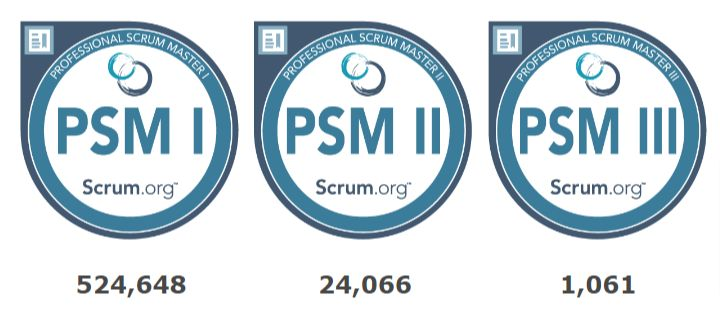
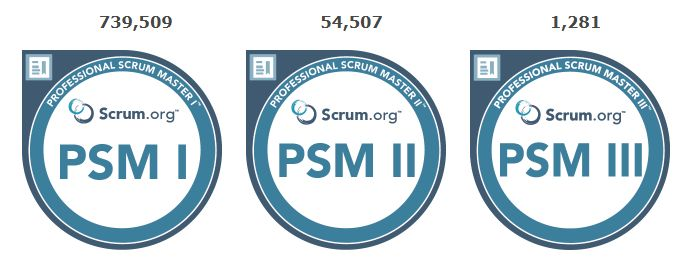
Updated the three PSM articles

diff --git a/content/articles/psm-1-certification-exam-preparation.md b/content/articles/psm-1-certification-exam-preparation.md
@@ -2,7 +2,7 @@
 title = "PSM I Certification: How to Prepare for and Pass the Exam"
 description = "Professional Scrum Master certification exam tests your understanding of the Scrum framework. How hard is this exam, and how do you pass it successfully?"
 date = "2022-11-04"
-lastmod = "2023-01-29"
+lastmod = "2025-12-13"
 slug = "psm-1-certification-exam-preparation"
 featured = "/article_images/psm-1-certification-exam-preparation-hero.jpg"
 thumbnail = "/article_images/psm-1-certification-exam-preparation-thumbnail.jpg"
@@ -30,28 +30,13 @@ Some questions you might need answered before deciding to take the exam:
 
 The biggest [competitor for PSM is CSM](/articles/psm-csm-which-scrum-certification-best/), but Scrum Alliance doesn’t publish the number of their certification holders. Scrum.org does, and Professional Scrum Master certification is in high demand.
 
-At the time of writing, among 750 000 professional certifications issued, around 70% of them were PSM I certifications.
+Scrum.org has a number of different certifications, but from over a million they issued in total, around 65% were PSM I certifications.
 
 **Related**: [Is the Scrum Master role a good fit for me?](/articles/is-the-scrum-master-role-right-for-me/)
 
-{{< figure src="/article_images/PSM-holders-Count-Scrum-org.jpg" alt="Number of Scrum.org Professional Scrum Master certification holders on each of the three levels" caption="Screenshot from Scrum.org">}}
+{{< figure src="/article_images/PSM-holders-Count-Scrum-org.jpg" alt="Number of Scrum.org Professional Scrum Master certification holders on each of the three levels" caption="PSM certification holders in 2025">}}
 
 As you can see, only under 5% of PSM I certification holders went on to obtain PSM II. However, PSM 1 isn’t the prerequisite for PSM 2, and maybe you’ll even opt to go [straight for the second level of PSM](/articles/psm-2-certification-exam-preparation/) – see below what the differences are.
-
-
-### PSM I exam and preparation cost
-
-PSM 1 exam fee is $150 per attempt.
-
-Scrum.org has a Scrum Master Learning Path full of **free** articles and webinars. You’ll gain a tremendous amount of insight if you complete it. Here’s a [list of full-length webinars](/articles/free-scrum-agile-webinars-prepare-certification-exam/) from Scrum.org learning paths.
-
-To be introduced to the nuances of the Scrum Framework with a structured narrative, read _[Scrum: A Pocket Guide](https://www.amazon.com/gp/product/B08XWQ7DG9/)_. The paperback and Kindle versions cost around $16 on Amazon. There are more book recommendations at the end of the article.
-
-If you like the video format, there are Scrum Master preparation courses, like this [Scrum for Beginners course](https://www.udemy.com/course/agile-scrum-for-beginners-scrum-master-certification-preparation/) on Udemy – the regular price is $35 but could be available for under $15 with the promotions Udemy regularly runs. 
-
-If you have the funds, taking a training course by a Professional Scrum Trainer would be very beneficial. PSM I 2-day training sessions on Scrum.org start at around $1000, with a free exam attempt included in the price. Training is available in different languages.
-
-{{< ebook-subscribe >}}
 
 ### How hard is the PSM 1 exam?
 
@@ -61,6 +46,7 @@ According to the calculations I ran when [comparing PSM I to the first level of 
 
 However, in and of itself the PSM I test is straightforward – as long as you know the Scrum Guide well. The best way to learn it well is to understand how its elements come together and try to implement its principles in practice.
 
+{{< ebook-subscribe >}}
 
 ### Is the PSM I exam open book or proctored?
 
@@ -72,6 +58,24 @@ Though it’s a relief to know that you could attempt the exam without the hassl
 
 {{< figure src="/article_images/psm-1-certification-exam-preparation-img1.jpg" alt="PSM I certification exam is open-book, but you shouldn't count on it" caption="photo by \@tima-miroshnichenko on Pexels">}}
 
+
+## PSM I certification cost breakdown
+
+### PSM 1 preparation cost
+
+Scrum.org has a [Scrum Master Learning Path](https://www.scrum.org/pathway/scrum-master/) full of **free** articles and webinars. You’ll gain a tremendous amount of insight if you complete it. Here’s a [list of full-length webinars](/articles/free-scrum-agile-webinars-prepare-certification-exam/) I put together from this and other learning paths on Scrum.org.
+
+To be introduced to the nuances of the Scrum Framework with a structured narrative, read _[Scrum: A Pocket Guide](https://www.amazon.com/Scrum-Pocket-Guide-Companion-Practice/dp/9401812217/)_. The paperback and Kindle versions cost around $19 on Amazon. There are more book recommendations at the end of the article.
+
+If you like the video format, there are Scrum Master preparation courses, like this [Scrum for Beginners course](https://www.udemy.com/course/agile-scrum-for-beginners-scrum-master-certification-preparation/) on Udemy – it could be available for under $15 with the promotions Udemy regularly runs.
+
+If you have the funds, taking a training course by a Professional Scrum Trainer would be beneficial. PSM I 2-day training sessions on Scrum.org start at around $1000, with a free exam attempt included in the price. Training is available in different languages.
+
+### PSM 1 exam cost
+
+PSM I exam fee is $200 per attempt. It's a hike from what it was before ($150), while the cost per PSM II exam attempt is still the same ($250). So if you're planning to get the PSM II certification in the future (some people pass PSM 2 just months or even weeks after PSM 1), that's yet another reason to [go for PSM II right away](/articles/psm-2-certification-exam-preparation/) – like I did.
+
+
 ## What is the difference between PSM I and PSM II?
 
 In a nutshell, here’s what I think the essence of each PSM level is:
@@ -80,7 +84,11 @@ PSM I validates that you **know** Scrum.
 
 PSM II validates that you **deeply get** Scrum.
 
-PSM III validates that you **can teach** Scrum.
+[PSM III](/articles/psm-3-certification-exam-preparation/) validates that you **can teach** Scrum.
+
+### Should I skip PSM I and take PSM II directly?
+
+As you probably know, [unlike CSM](/articles/psm-csm-which-scrum-certification-best/), PSM levels are independent. You can take any of the Scrum.org tests without obtaining any of their other certifications or taking their courses. Just buy the access code for the exam of your choice and launch it whenever you feel ready.
 
 It seems logical that PSM I should be taken first, right? Not necessarily. It depends on:
 
@@ -91,42 +99,20 @@ It seems logical that PSM I should be taken first, right? Not necessarily. It de
 
 Job postings mentioning Scrum Master certifications rarely talk about PSM II specifically, so it doesn’t look like it makes much difference from the employability standpoint. It’s more of a personal preference.
 
-
-### Can I skip PSM I and take PSM II directly?
-
-As you probably know, [unlike CSM](/articles/psm-csm-which-scrum-certification-best/), PSM levels are independent. You can take any of the Scrum.org tests without obtaining any of their other certifications or taking their courses. Just buy the access code for the exam of your choice and launch it whenever you feel ready.
-
-PSM II is obviously a harder test, and it takes more time to prepare.
-
-But if you know that your aspiration is to deeply dive into Scrum, and you feel you're going to attempt the second level anyway (some people pass PSM 2 just months or even weeks after PSM 1), then you might as well go straight for PSM II, like I did.
-
-Check out the guide on [how to pass the PSM II exam](/articles/psm-2-certification-exam-preparation/) and see which certification level resonates more with your experience and aspirations.
+PSM II is obviously a harder test, and it takes more time to prepare. Check out the guide on [how to pass the PSM II exam](/articles/psm-2-certification-exam-preparation/) and see which certification level resonates more with your experience and aspirations.
 
 {{< figure src="/article_images/psm-1-certification-exam-preparation-img2.jpg" alt="You can go directly for the PSM II exam, skipping the PSM. Will you try it?" caption="photo by \@ann-h-45017 on Pexels">}}
 
 
 ## Mindset to prepare for the PSM I exam
 
-There are things described as “easy to learn but hard to master”. Scrum Guide is short and easy to read, but Scrum isn’t that _easy _to learn.
+There are things described as “easy to learn but hard to master”. Scrum Guide is short and easy to read, but Scrum isn’t that _easy_ to learn.
 
 Akin to ancient spiritual manuscripts, you have the original small book, and then there are volumes upon volumes of comments, interpretations, and examples of practical implementation.
 
 <p class="paragraph_highlight">Getting a certification is great, but the main value you get is from the preparation. It’s a wonderful journey, so make the most of it.</p>
 
 Start with a solid understanding of [why you want to get certified](/articles/are-certifications-worth-it/), curious, open-minded, driven by a desire to expand your horizons, and ready to [dive into learning](/articles/online-research-strategy-efficient/).
-
-
-## Caution: old versions of the Scrum Guide vs. the 2020 version
-
-Keep in mind: the Scrum Guide gets revised every few years. Here’s the [timeline overviewing the differences](https://scrumguides.org/revisions.html) between the Scrum Guide versions since 2010, when the first version was published.
-
-For example, “The Development Team” wording is used throughout (changed to “The Developers” in the 2020 version, so that nobody thinks there’s another team within the Scrum Team). The core hasn’t changed, but there are minor differences that might be confusing.
-
-This article highlights the 4 [most important changes to the Scrum Guide](https://www.scrum.org/resources/blog/what-4-key-changes-scrum-guide-tell-us-about-scrum) and gives a rundown of other changes worth mentioning. It’s a part of a series of almost 60 articles [explaining various aspects](https://www.scrum.org/scrum-guide-2020) that changed in the 2020 version of the Scrum Guide.
-
-Most of the articles and books you’ll be using in your preparation were written when the previous versions of the Scrum Guide were active.
-
-Just be aware that there are differences, and refer to the latest edition of the Scrum Guide to whenever in doubt.
 
 
 ## Topics and keywords for PSM 1
@@ -171,7 +157,7 @@ This [PSM I simulator by Volkerdon](https://www.volkerdon.com/courses/scrum-mast
 
 ## Recommended books to prepare for the PSM 1 certification
 
-1. _[Scrum: A Pocket Guide](https://www.amazon.com/gp/product/B08XWQ7DG9/)_ (3rd edition) by Gunther Verheyen. A fundamental book for beginners explaining the Agile principles and the elements, methods, and principles of the Scrum Framework. The third edition, released in 2021, is fully aligned with the newest version of the Scrum Guide. Available on [Amazon](https://www.amazon.com/gp/product/B08XWQ7DG9/) and [Barnes & Noble](https://www.barnesandnoble.com/w/scrum-a-pocket-guide-3rd-edition-gunther-verheyen/1138924732?ean=9789401807364).
+1. _[Scrum: A Pocket Guide](https://www.amazon.com/Scrum-Pocket-Guide-Companion-Practice/dp/9401812217/)_ (4rd edition) by Gunther Verheyen. A fundamental book for beginners explaining the Agile principles and the elements, methods, and principles of the Scrum Framework. The third edition, released in 2021, is fully aligned with the newest version of the Scrum Guide. Available on [Amazon](https://www.amazon.com/gp/product/B08XWQ7DG9/) and [Barnes & Noble](https://www.barnesandnoble.com/w/scrum-a-pocket-guide-3rd-edition-gunther-verheyen/1138924732?ean=9789401807364).
 2. _[Scrum Insights for Practitioners: The Scrum Guide Companion](https://www.amazon.com/Scrum-Insights-Practitioners-Guide-Companion/dp/0692807179)_ by Hiren Doshi. A book about the practical application of the Scrum framework in different situations. It touches on questions like:
 	- How is Scrum empirical?
 	- What are the tactics to do Scrum Events effectively?
@@ -179,9 +165,20 @@ This [PSM I simulator by Volkerdon](https://www.volkerdon.com/courses/scrum-mast
 
     It was released in 2016, so contains some older terminology like “Development Team” or “Scrum roles”, but the core principles remain topical. Available on [Amazon](https://www.amazon.com/Scrum-Insights-Practitioners-Guide-Companion/dp/0692807179) and [Barnes & Noble](https://www.barnesandnoble.com/w/scrum-insights-for-practitioners-hiren-doshi/1125252333?ean=9780692807170).
 
-3. _[Mastering Professional Scrum](https://www.amazon.com/Mastering-Professional-Scrum-Coaches-Challenges/dp/0134841522)_: _A Practitioner's Guide to Overcoming Challenges and Maximizing the Benefits of Agility _by Stephanie Ockerman and Simon Reindl. The book delves deeper into implementing Scrum principles, creating a strong team foundation, delivering value, and improving teams and organizations. Available on [Amazon](https://www.amazon.com/Mastering-Professional-Scrum-Coaches-Challenges/dp/0134841522) and [Barnes & Noble](https://www.barnesandnoble.com/w/mastering-professional-scrum-stephanie-ockerman/1132975155).
+3. _[Mastering Professional Scrum](https://www.amazon.com/Mastering-Professional-Scrum-Coaches-Challenges/dp/0134841522)_: _A Practitioner's Guide to Overcoming Challenges and Maximizing the Benefits of Agility_ by Stephanie Ockerman and Simon Reindl. The book delves deeper into implementing Scrum principles, creating a strong team foundation, delivering value, and improving teams and organizations. Available on [Amazon](https://www.amazon.com/Mastering-Professional-Scrum-Coaches-Challenges/dp/0134841522) and [Barnes & Noble](https://www.barnesandnoble.com/w/mastering-professional-scrum-stephanie-ockerman/1132975155).
 4. _[Scrum Mastery](https://www.amazon.com/Scrum-Mastery-Geoff-Watts-Agile/dp/B091NN3QBD/)_ (2nd edition) by Geoff Watts. What makes a great Scrum Master? Geoff has been coaching Scrum teams for over twenty years. In the 2021 updated edition of this book, he shares a collection of stories and practical guidance on servant leadership and nurturing a high-performing team. Available on [Amazon](https://www.amazon.com/Scrum-Mastery-Geoff-Watts-Agile/dp/B091NN3QBD/).
 
+## Caution: old versions of the Scrum Guide vs. the 2020 version
+
+Keep in mind: the Scrum Guide gets revised every few years. Here’s the [timeline overviewing the differences](https://scrumguides.org/revisions.html) between the Scrum Guide versions since 2010, when the first version was published.
+
+For example, “The Development Team” wording is used throughout (changed to “The Developers” in the 2020 version, so that nobody thinks there’s another team within the Scrum Team). The core hasn’t changed, but there are minor differences that might be confusing.
+
+This article highlights the 4 [most important changes to the Scrum Guide](https://www.scrum.org/resources/blog/what-4-key-changes-scrum-guide-tell-us-about-scrum) and gives a rundown of other changes worth mentioning. It’s a part of a series of almost 60 articles [explaining various aspects](https://www.scrum.org/scrum-guide-2020) that changed in the 2020 version of the Scrum Guide.
+
+Most of the articles and books you’ll be using in your preparation were written when the previous versions of the Scrum Guide were active.
+
+Just be aware that there are differences, and refer to the latest edition of the Scrum Guide to whenever in doubt.
 
 ## Conclusion
 

diff --git a/content/articles/psm-2-certification-exam-preparation.md b/content/articles/psm-2-certification-exam-preparation.md
@@ -2,7 +2,7 @@
 title = "PSM II Certification: How to Pass the Exam Successfully"
 description = "The second level of PSM is testing your understanding of Scrum in real-life scenarios. This guide will give you practical tips to prepare for the test."
 date = "2022-11-10"
-lastmod = "2023-01-29"
+lastmod = "2025-12-14"
 slug = "psm-2-certification-exam-preparation"
 featured = "/article_images/psm-2-certification-exam-preparation-hero.jpg"
 thumbnail = "/article_images/psm-2-certification-exam-preparation-thumbnail.jpg"
@@ -23,9 +23,9 @@ In this article, you’ll find practical tips on how to prepare for the PSM II e
 
 ## How in-demand is the PSM II certification? Is it worth getting it?
 
-Among the people who passed the PSM I assessment, only around 5% went on to take PSM II.
+Among the people who passed the PSM I assessment, only around 7% went on to take PSM II. However, that's a higher percentage than before, and the total number of PSM II certification holders nearly doubled in the last few years.
 
-{{< figure src="/article_images/PSM-holders-Count-Scrum-org.jpg" alt="Number of Scrum.org Professional Scrum Master certification holders on each of the three levels" caption="Screenshot from Scrum.org">}}
+{{< figure src="/article_images/PSM-holders-Count-Scrum-org.jpg" alt="Number of Scrum.org Professional Scrum Master certification holders on each of the three levels" caption="PSM certification holders in 2025">}}
 
 The second level of PSM is definitely more of a challenge than the first. Since [the best thing about getting a certification](/articles/are-certifications-worth-it/) is the knowledge and insights you get while preparing for the exam, you’ll gain a lot from taking the PSM II test.
 
@@ -72,7 +72,7 @@ There are tons of free materials provided by Scrum.org, like their Learning Path
 
 If you prefer to receive information in a more concise and structured way, you could buy a few books, for $15-25 on average. But still, read as many extra materials as your schedule allows.
 
-If you like the video format, there are video courses, like the [Advanced Scrum Master](https://www.udemy.com/course/ultimate-scrum-master-certification-agile-scrum-training-scrum-master-prep/) course on Udemy. The regular price is $50 but could be available for under $15 under the promotions Udemy regularly runs.
+If you like the video format, there are video courses, like the [Advanced Scrum Master](https://www.udemy.com/course/ultimate-scrum-master-certification-agile-scrum-training-scrum-master-prep/) course on Udemy. It could be available for under $15 during the promotions Udemy regularly runs.
 
 Exam simulators, like this [PSM II exam simulator](https://www.udemy.com/course/scrum-master-2-6-practice-tests-scrum-guide-2021/) on Udemy, costs $20 but could be less with a promotional discount.
 
@@ -115,7 +115,7 @@ There's also a book written by Professional Scrum Trainers from Scrum.org that d
 
 ### 4. Look into Evidence-Based Management (EBM)
 
-[Read the EBM guide here](https://scrumorg-website-prod.s3.amazonaws.com/drupal/2020-12/EBM%20Guide%202020_1.pdf). Pay special attention to Key Value Areas (KVAs): **Current Value (CV), Unrealized Value (UV), Ability to Innovate (A2I), Time-to-Market (T2M)**. Thoroughly study the appendix with examples of how each of the areas is measured.
+[Read the EBM guide here (PDF)](https://scrumorg-website-prod.s3.amazonaws.com/drupal/2020-12/EBM%20Guide%202020_1.pdf). Pay special attention to Key Value Areas (KVAs): **Current Value (CV), Unrealized Value (UV), Ability to Innovate (A2I), Time-to-Market (T2M)**. Thoroughly study the appendix with examples of how each of the areas is measured.
 
 
 ### 5. Understand the Scrum Guide version changes
@@ -170,7 +170,7 @@ Get suspicious of:
 2. _[Fixing Your Scrum:](https://www.amazon.com/Fixing-Your-Scrum-Practical-Solutions/dp/1680506978) Practical Solutions to Common Scrum Problems_ by Ryan Ripley and Todd Miller. It discusses various ways using the Scrum framework can go wrong – mishandled accountabilities, issues with product backlog and Scrum events – and how those problems could be tackled. There are many real-world examples. Available on [Amazon](https://www.amazon.com/Fixing-Your-Scrum-Practical-Solutions/dp/1680506978) and [Barnes & Noble](https://www.barnesandnoble.com/w/fixing-your-scrum-ryan-ripley/1132124402?ean=9781680506976).
 3. _[Agile Leadership Toolkit](https://www.amazon.com/dp/0135224969): Learning to Thrive with Self-Managing Teams_ by Peter Koning. The book offers methods and tools to lead agile teams at a large scale and improve the environment within your organization. In particular, the book discusses Key Value Indicators and other Agile metrics related to Evidence-Based Management. Available on [Amazon](https://www.amazon.com/dp/0135224969) and [Barnes & Noble](https://www.barnesandnoble.com/w/agile-leadership-toolkit-peter-koning/1132519464?ean=9780135224960).
 4. _[Nexus Framework for Scaling Scrum](https://www.amazon.com/Nexus-Framework-Scaling-Scrum-Continuously/dp/0134682661)_ by Kurt Bittner, Patricia Kong, and Dave West. Scrum.org presents their version of scaling Scrum across multiple Scrum Teams – the Nexus framework. It provides methods of integration among Scrum Teams and non-Scrum teams working on the same project. Available on [Amazon](https://www.amazon.com/Nexus-Framework-Scaling-Scrum-Continuously/dp/0134682661) and [Barnes & Noble](https://www.barnesandnoble.com/w/nexus-framework-for-scaling-scrum-the-kurt-bittner/1138612371?ean=9780134682716).
-5. _[Agile Conversations](https://www.amazon.com/Agile-Conversations-Transform-Your-Culture-ebook/dp/B07YZP8LC9): Transform Your Conversations, Transform Your Culture_ by Douglas Squirrel and Jeffrey Fredrick. The book shares stories and provides techniques to handle different conversations and improve communication within the team and the company. Available on [Amazon](https://www.amazon.com/Agile-Conversations-Transform-Your-Culture-ebook/dp/B07YZP8LC9) and [Barnes & Noble](https://www.barnesandnoble.com/w/agile-conversations-dougals-squirrel/1134041206?ean=9781942788973).
+5. _[Agile Conversations](https://www.amazon.com/Agile-Conversations-Transform-Your-Culture/dp/1942788975/): Transform Your Conversations, Transform Your Culture_ by Douglas Squirrel and Jeffrey Fredrick. The book shares stories and provides techniques to handle different conversations and improve communication within the team and the company. Available on [Amazon](https://www.amazon.com/Agile-Conversations-Transform-Your-Culture-ebook/dp/B07YZP8LC9) and [Barnes & Noble](https://www.barnesandnoble.com/w/agile-conversations-dougals-squirrel/1134041206?ean=9781942788973).
 
 
 ## My experience preparing for and passing the PSM II test
@@ -195,11 +195,11 @@ I was preparing for both Professional Scrum with Kanban certification and PSM II
 
 <p class="paragraph_highlight">Does it make me a great Scrum Master?</p>
 
-The more I learned, the more I realized that the Scrum Master accountability in its pure form, as it was intended by the Scrum Guide, isn’t something that fully resonates with me. I like organizing workflows (but not micromanaging), exposing and mitigating risks. Scrum Master [isn't Agile Project Manager](https://keystonecollects.com/career/agile-project-manager/).
+The more I learned, the more I realized that the Scrum Master accountability in its pure form, as it was intended by the Scrum Guide, isn’t something that fully resonates with me. I like organizing workflows (but not micromanaging), exposing and mitigating risks. Scrum Master [isn't Agile Project Manager](https://apmg-international.com/article/what-does-agile-project-manager-do).
 
 But, as I said in the beginning, getting a certification is about the journey and the things you learned along the way.
 
-I did understand the Scrum framework well enough to be aware of subtle nuances and be able to explain, implement and facilitate it. I learned insightful and useful things. And this immersion into the Agile mindset was a great foundation to pass the PMP and IIBA-AAC exams with high scores shortly afterward.
+I did understand the Scrum framework well enough to be aware of subtle nuances and be able to explain, implement and facilitate it. I learned insightful and useful things. And this immersion into the Agile mindset was a great foundation to pass the [PMP](/articles/pmp-certification-exam-preparation/) and IIBA-AAC exams with high scores shortly afterward.
 
 
 ## Conclusion

diff --git a/content/articles/psm-3-certification-exam-preparation.md b/content/articles/psm-3-certification-exam-preparation.md
@@ -2,7 +2,7 @@
 title = "PSM III certification: Actionable Guide to Pass the Exam"
 description = "PSM III certification exam is the ultimate challenge for Scrum practitioners. We'll talk about the mindset and the strategies to pass this exam on the first try."
 date = "2022-11-17"
-lastmod = "2022-11-17"
+lastmod = "2025-12-15"
 slug = "psm-3-certification-exam-preparation"
 featured = "/article_images/psm-3-certification-exam-preparation-hero.jpg"
 thumbnail = "/article_images/psm-3-certification-exam-preparation-thumbnail.jpg"
@@ -11,11 +11,11 @@ draft = false
 categories = ["Professional growth"]
 +++
 
-PSM III certification exam is the ultimate challenge for Scrum practitioners. Out of all people who passed the PSM I test, only 0.2% went all the way up to level three.
+PSM III certification exam is the ultimate challenge for Scrum practitioners. Out of all people who passed the PSM I test, less than 0.2% went all the way up to level three.
 
-{{< figure src="/article_images/PSM-holders-Count-Scrum-org.jpg" alt="Number of Scrum.org Professional Scrum Master certification holders on each of the three levels" caption="Screenshot from Scrum.org">}}
+{{< figure src="/article_images/PSM-holders-Count-Scrum-org.jpg" alt="Number of Scrum.org Professional Scrum Master certification holders on each of the three levels" caption="PSM certification holders in 2025">}}
 
-There are just over 1000 people in the entire world who obtained the PSM III certification.
+There are just over 1200 people in the entire world who obtained the PSM III certification.
 
 But that statistic doesn't show an untold number of people who attempted the PSM 3 exam, failed, and were discouraged from ever trying again. I won't let this happen to you.
 
@@ -56,38 +56,19 @@ The point of all those metaphors is: not only do the answers have to be correct,
 {{< figure src="/article_images/psm-3-certification-exam-preparation-img1.jpg" alt="Time management is the key to successfully pass the PSM exam" caption="photo by \@jontyson on Unsplash">}}
 
 
-## Time Limit: the hardest part about the PSM III exam  
+## PSM III exam time pressure – how much time do I have per question?
 
-There are 30 questions that you need to answer in 2.5 hours (150 minutes).
+There are 24 questions that you need to answer in 2.5 hours (150 minutes). All of them are essay questions where you need to type the answer (no copy-pasting or prepared responses).
 
-Out of these, 80% are essay questions where you need to type the answer (no copy-pasting or prepared responses). The rest are multiple-answer questions.
+There used to be 6 multiple-answer questions, but they were removed, so the exam takers will need to answer the remaining essay questions within the same time frame.
 
-If we just divide 150 minutes by 30, that would give us 5 minutes per question.
+If we divide 150 minutes by 24, that would give us a little over 6 minutes per question. But keep in mind that each question might have more than one sub-question related to the scenario at hand, effectively increasing the number of questions in the exam. If, say, a third of PSM III questions have two sub-questions, you'll effectively need to answer 32 questions.
 
-You’ll actually answer multiple-answer questions faster, in under 3 minutes or less. 20% of 30 is 6, so those six multiple-answer questions will give you over 12 extra minutes to write the essay answers.
-
-However, as exciting as it is to hit the “Complete” button seconds before the timer runs out, it’s better to keep the pace that would let you double-check your answer and calmly submit the test with some time left on the clock.
-
-So, let those 12 minutes be your strategic reserve, and aim to complete each of the PSM III essay questions in **5 minutes or less**.
-
-{{< figure src="/article_images/psm-3-certification-exam-preparation-img2.jpg" alt="A guide to passing the PSM III certification exam" caption="photo by \@alexas_fotos on Unsplash">}}
-
-
-## How much time do I have per a PSM 3 exam question?
-
-Keep in mind that each question might have more than one sub-question related to the scenario at hand, effectively increasing the number of questions in the exam. Let’s imagine that a third of the essay questions consist of two sub-questions.
-
-80% of the 30 PSM III exam questions are essay. A third of them (24/3 = 8) actually contains 2 questions, which makes it 24+8, or around 32 questions that you’ll need to answer in writing.
-
-80% of the exam time is 120 minutes. Divided into 32, that equates to 3.75 minutes per question, or 3 minutes and 45 seconds.
-
-So, here’s the tangible answer on how to succeed at your PSM III exam:
-
-<p class="paragraph_highlight">You need to give a clear, concise answer, using the Scrum Guide terminology, in under 3 minutes 45 seconds.</p>
+With less questions in total, you get more time and mental energy to focus on each one. But my advice remains the same – for your own peace of mind, as you get ready for the exam, aim to complete each of the PSM III essay questions in **5 minutes or less**.
 
 As you might imagine, that would take practice.
 
-{{< ebook-subscribe >}}
+{{< figure src="/article_images/psm-3-certification-exam-preparation-img2.jpg" alt="A guide to passing the PSM III certification exam" caption="photo by \@alexas_fotos on Unsplash">}}
 
 ## PSM III exam and preparation cost
 
@@ -97,7 +78,7 @@ PSM II training [comes with a 40% discount](https://www.scrum.org/courses/profes
 
 Cost-wise, the preparation is the same as what you would do when [getting ready for PSM II](/articles/psm-2-certification-exam-preparation/).
 
-Most likely you already own the books like _[Scrum: A Pocket Guide](https://www.amazon.com/gp/product/B08XWQ7DG9/)_ (3rd edition) and _[Mastering Professional Scrum](https://www.amazon.com/Mastering-Professional-Scrum-Coaches-Challenges/dp/0134841522)_, and you took a course or a training class by a Professional Scrum Trainer. Revisit the books and course materials to refresh your knowledge.
+Most likely you already own the books like _[Scrum: A Pocket Guide](https://www.amazon.com/Scrum-Pocket-Guide-Companion-Practice/dp/9401812217/)_ (4th edition) and _[Mastering Professional Scrum](https://www.amazon.com/Mastering-Professional-Scrum-Coaches-Challenges/dp/0134841522)_, and you took a course or a training class by a Professional Scrum Trainer. Revisit the books and course materials to refresh your knowledge.
 
 But the resource you’ll be spending the most as you prepare for PSM III is time spent practicing. It takes time to beat time.
 
@@ -120,6 +101,8 @@ What is **{{ a keyword }}** and why is it important? How does it play into empir
 Write this out for each of the Scrum values, artifacts, events, accountabilities, and all the other keywords.
 
 If you want an extra challenge, write what is the empirical importance of each of the items from the [Scrum developer glossary](https://www.scrum.org/resources/professional-scrum-developer-glossary).
+
+{{< ebook-subscribe >}}
 
 
 ### Answer the PSM II questions in an essay form
